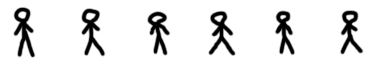
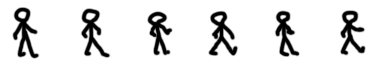
usePets hook and create example sprite in index.tsx

diff --git a/client/src/modules/pets/index.tsx b/client/src/modules/pets/index.tsx
@@ -1,7 +1,7 @@
-import { useEffect, useState } from 'react'
-import { usePetEngine } from '../hooks/usePetEngine'
-import { PetSprite } from './PetSprite'
-import type { Pet } from '../models/pet'
+import { useEffect } from "react";
+import { PetSprite } from "./components/PetSprite";
+import { usePets } from "./hooks/usePets";
+import type { Pet } from "./models/pet";
 
 const examplePet: Pet = {
     id: 'cat-1',
@@ -10,7 +10,7 @@ const examplePet: Pet = {
     y: window.innerHeight - 120,
     
     vx: 1,
-    vy: 0,
+    vy: 0.2,
     
     width: 64,
     height: 64,
@@ -20,25 +20,20 @@ const examplePet: Pet = {
     behavior: 'walk',
     animation: 'walk',
     
-    speed: 1,
+    speed: 0.4,
 }
 
-export function PetLayer() {
-    const engine = usePetEngine()
-    const [, setTick] = useState(0)
+export function Pets() {
+    const { addPet, pets } = usePets()
 
     useEffect(() => {
-        if (!engine) return
+        addPet(examplePet)
+    }, [])
 
-
-        engine.addPet(examplePet)
-        setTick(t => t + 1)
-
-    }, [engine])
 
     return (
         <div className="fixed inset-0 pointer-events-none overflow-hidden z-50">
-            {engine?.pets.map(pet => (
+            {pets?.map(pet => (
                 <PetSprite
                     key={pet.id}
                     pet={pet}

diff --git a/client/src/modules/pets/engine/PetEngine.ts b/client/src/modules/pets/engine/PetEngine.ts
@@ -31,6 +31,8 @@ export class PetEngine {
 
         this.running = true
 
+        if (this.pets.length < 1) return
+        
         const loop = (time: number) => {
             if (!this.running) return
 
@@ -38,7 +40,6 @@ export class PetEngine {
             this.lastTime = time
 
             for (const pet of this.pets) {
-                // console.log(pet)
                 updateBehavior(pet)
                 updatePhysics(pet)
                 resolveScreenBounds(pet)
@@ -56,11 +57,8 @@ export class PetEngine {
             }
 
             // render
-            // console.log('here')
             for (const pet of this.pets) {
-                // console.log(this.pets)
                 if (!pet.element) continue
-                // console.log(pet.element)
                 pet.element.style.transform =
                     `translate(${pet.x}px, ${pet.y}px) scaleX(${pet.direction})`
             }

diff --git a/client/src/App.tsx b/client/src/App.tsx
@@ -5,7 +5,7 @@ import { ModalProvider } from './components/modal/ModalProvider'
 import { UserProvider } from './utils/User/UserContext'
 import { PointsProvider } from './modules/points/contexts/PointsContext'
 import { ThemeProvider } from './utils/Theme/ThemeContext'
-import { PetLayer } from './modules/pets/components/PetLayer'
+import { Pets } from './modules/pets'
 
 function App() {    
   // const [count, setCount] = useState(0)
@@ -17,7 +17,7 @@ function App() {
                     <PointsProvider>
                         <ModalProvider>
                             <div className="relative overflow-hidden min-h-screen">
-                                <PetLayer />
+                                <Pets />
 
                                 <div className="flex items-center justify-center font-mono min-h-screen p-10">
                                     <Typing />

diff --git a/client/src/modules/pets/engine/behaviors.ts b/client/src/modules/pets/engine/behaviors.ts
@@ -17,8 +17,9 @@ export function updateBehavior(pet: Pet) {
 function updateIdle(pet: Pet) {
     pet.vx *= 0.9
 
-    if(Math.random() < 0.005) {
+    if(Math.random() < 0.01) {
         pet.behavior = 'walk'
+        pet.animation = 'walk'
     }
 }
 
@@ -27,8 +28,13 @@ function updateWalk(pet: Pet) {
         pet.vx = Math.random() > 0.5 ? pet.speed : -pet.speed
     }
 
-    if(Math.random() < 0.002) {
+    if(pet.vy === 0) {
+        pet.vy = Math.random() > 0.5 ? pet.speed : -pet.speed
+    }
+
+    if(Math.random() < 0.1) {
         pet.behavior = 'idle'
+        pet.animation = 'idle'
         pet.vx = 0
     }
 }

diff --git a/client/src/modules/pets/hooks/usePets.ts b/client/src/modules/pets/hooks/usePets.ts
@@ -1,0 +1,26 @@
+import { useState } from 'react'
+import { usePetEngine } from '../hooks/usePetEngine'
+import type { Pet } from '../models/pet'
+
+export function usePets() {
+    const engine = usePetEngine()
+    const [, setTick] = useState(0)
+
+
+    const addPet = (pet: Pet) => {
+        if (!engine) return
+
+        engine.addPet(pet)
+        setTick(t => t + 1)
+    }
+
+    const removePet = (id: string) => {
+
+        if (!engine) return
+
+        engine.removePet(id)
+        setTick(t => t + 1)
+    }
+
+    return { addPet, removePet, pets: engine?.pets}
+}

diff --git a/client/src/modules/pets/engine/animation.ts b/client/src/modules/pets/engine/animation.ts
@@ -19,7 +19,7 @@ export const animations: Record<string, AnimationConfig> = {
         frameWidth: 64,
         frameHeight: 64,
         frames: 6,
-        fps: 10,
+        fps: 6,
     },
 
     sleep: {
